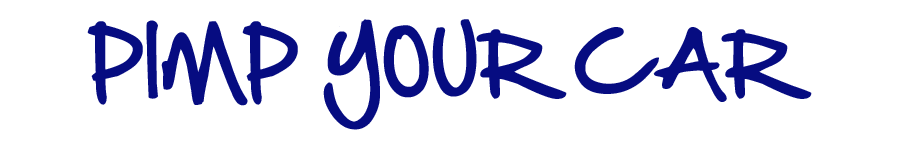
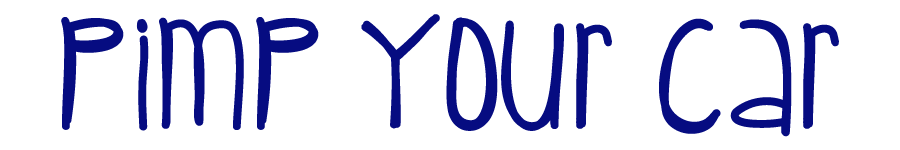
- Changed schissdreck quit Dialog - Changed pimp your car title font

Changed region(s): [[0.0622, 0.08, 0.9333, 0.9067]]

diff --git a/WindowsGame2/WindowsGame2/WindowsGame2/Screens/MessageBoxScreen.cs b/WindowsGame2/WindowsGame2/WindowsGame2/Screens/MessageBoxScreen.cs
@@ -26,7 +26,6 @@ namespace WindowsGame2.Screens
     {
         #region Fields
 
-        string message;
         Texture2D gradientTexture;
 
         InputAction menuSelect;
@@ -44,29 +43,8 @@ namespace WindowsGame2.Screens
         #region Initialization
 
 
-        /// <summary>
-        /// Constructor automatically includes the standard "A=ok, B=cancel"
-        /// usage text prompt.
-        /// </summary>
-        public MessageBoxScreen(string message)
-            : this(message, true)
-        { }
-
-
-        /// <summary>
-        /// Constructor lets the caller specify whether to include the standard
-        /// "A=ok, B=cancel" usage text prompt.
-        /// </summary>
-        public MessageBoxScreen(string message, bool includeUsageText)
+        public MessageBoxScreen()
         {
-            const string usageText = "\n      YES" +
-                                     "\n      NO"; 
-            
-            if (includeUsageText)
-                this.message = message + usageText;
-            else
-                this.message = message;
-
             IsPopup = true;
 
             menuSelect = new InputAction(
@@ -139,39 +117,18 @@ namespace WindowsGame2.Screens
         /// </summary>
         public override void Draw(GameTime gameTime)
         {
-            SpriteBatch spriteBatch = ScreenManager.SpriteBatch;
-            SpriteFont font = ScreenManager.Font;
-
-            // Darken down any other screens that were drawn beneath the popup.
             ScreenManager.FadeBackBufferToBlack(TransitionAlpha * 2 / 3);
 
             // Center the message text in the viewport.
             Viewport viewport = ScreenManager.GraphicsDevice.Viewport;
-            Vector2 viewportSize = new Vector2(viewport.Width, viewport.Height);
-            Vector2 textSize = font.MeasureString(message);
-            Vector2 textPosition = (viewportSize - textSize) / 2;
+            Vector2 position = new Vector2(viewport.Width / 2 - gradientTexture.Bounds.Width / 2, viewport.Height / 2 - gradientTexture.Bounds.Height / 2);
 
-            // The background includes a border somewhat larger than the text itself.
-            const int hPad = 32;
-            const int vPad = 16;
-
-            Rectangle backgroundRectangle = new Rectangle((int)textPosition.X - hPad,
-                                                          (int)textPosition.Y - vPad,
-                                                          (int)textSize.X + hPad * 2,
-                                                          (int)textSize.Y + vPad * 2);
-
-            // Fade the popup alpha during transitions.
-            Color color = Color.White * TransitionAlpha;
-
-            spriteBatch.Begin();
+            ScreenManager.SpriteBatch.Begin();
 
             // Draw the background rectangle.
-            spriteBatch.Draw(gradientTexture, backgroundRectangle, color);
+            ScreenManager.SpriteBatch.Draw(gradientTexture, position, Color.White);
 
-            // Draw the message box text.
-            spriteBatch.DrawString(font, message, textPosition, color);
-
-            spriteBatch.End();
+            ScreenManager.SpriteBatch.End();
         }
 
 

diff --git a/WindowsGame2/WindowsGame2/WindowsGame2/Screens/PauseMenuScreen.cs b/WindowsGame2/WindowsGame2/WindowsGame2/Screens/PauseMenuScreen.cs
@@ -42,8 +42,7 @@ namespace WindowsGame2.Screens
             MenuEntries.Add(quitGameMenuEntry);
 
             // Prepare the dialog for quitting the game.
-            const string message = "Are you sure you want to quit this game?";
-            QuitDialog = new MessageBoxScreen(message);
+            QuitDialog = new MessageBoxScreen();
             QuitDialog.Accepted += ConfirmQuitMessageBoxAccepted;
         }
 
